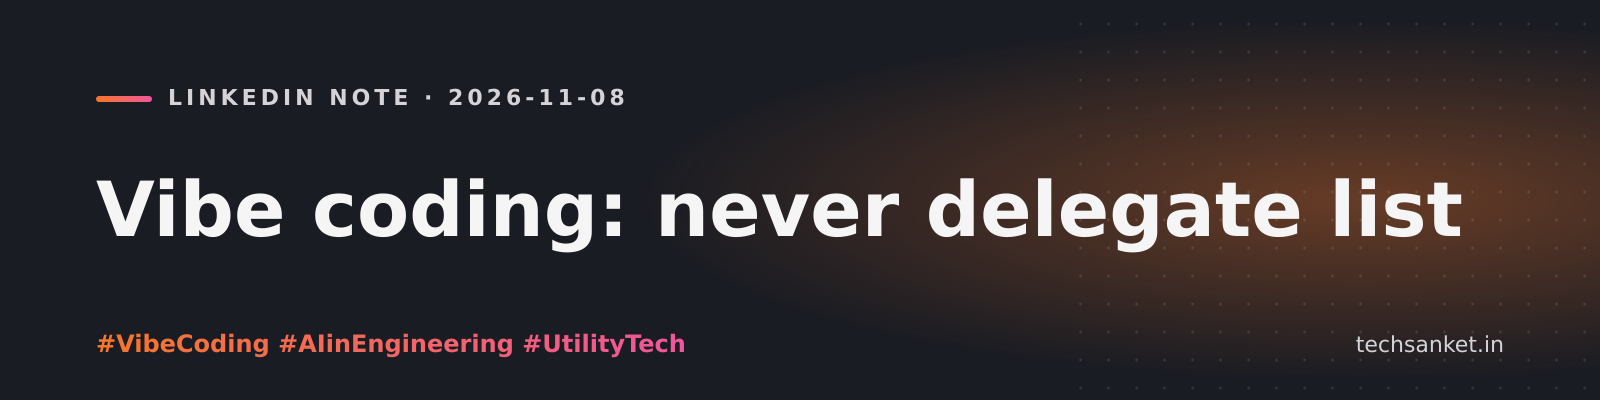
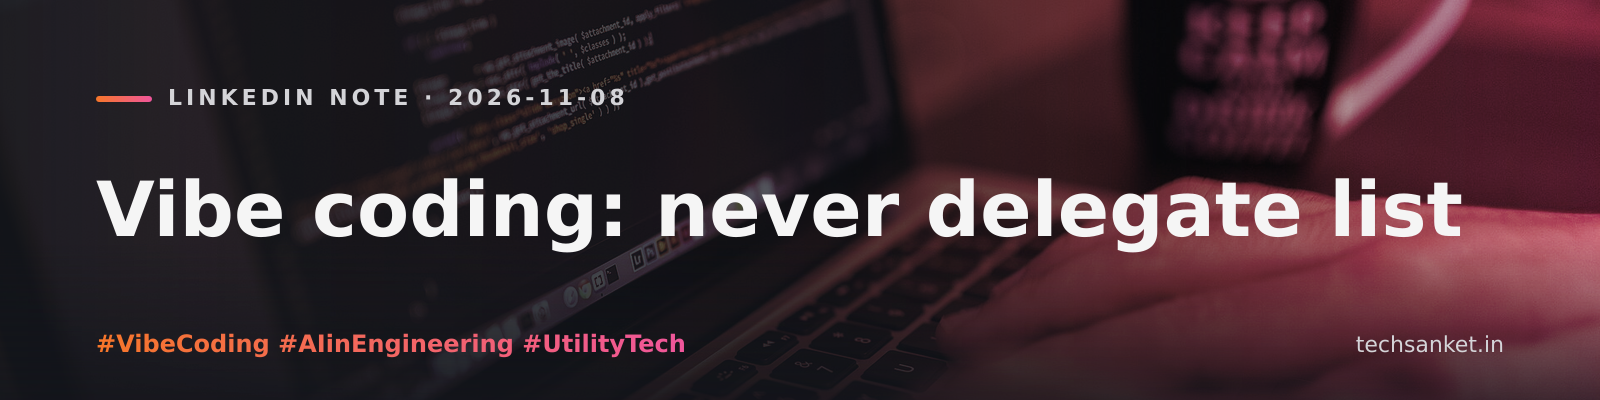
Redraw covers of the 3 existing LinkedIn posts with licensed photos
One-time redraw without the Anthropic API: photos were chosen by hand from
Wikimedia Commons candidates and rendered with scripts/post-covers.mjs, so
the output matches what the workflow produces. Credits are in each post's
imageCredits.

diff --git a/content/posts/li-11888000.md b/content/posts/li-11888000.md
@@ -6,6 +6,7 @@ publishDate: "2026-11-13"
 source: "linkedin"
 linkedinUrl: "https://www.linkedin.com/feed/update/urn:li:share:7526856382415896576"
 image: "/images/posts/li-11888000.png"
+imageCredits: [{"text":"Photo of Jensen Huang: Anderseidesvik, CC BY-SA 4.0, via Wikimedia Commons","url":"https://commons.wikimedia.org/wiki/File:Jensen_Huang_Stanford_2026-04-30_010_(cropped).jpg"},{"text":"Background: Valdemar Baes Aaholst, CC BY 4.0, via Wikimedia Commons","url":"https://commons.wikimedia.org/wiki/File:Press_Photographers_at_Amalienborg_2026.png"}]
 ---
 
 33 years. One CEO. Gone in a single morning.

diff --git a/content/posts/li-11851317.md b/content/posts/li-11851317.md
@@ -6,6 +6,7 @@ publishDate: "2026-11-11"
 source: "linkedin"
 linkedinUrl: "https://www.linkedin.com/feed/update/urn:li:share:7526200606441705472"
 image: "/images/posts/li-11851317.png"
+imageCredits: [{"text":"Background: BalticServers.com, CC BY-SA 3.0, via Wikimedia Commons","url":"https://commons.wikimedia.org/wiki/File:BalticServers_data_center.jpg"}]
 ---
 
 We connected AI agents to our internal tools using MCP. They now read tickets, test the app, and check the database on their own.

diff --git a/content/posts/li-11777519.md b/content/posts/li-11777519.md
@@ -6,6 +6,7 @@ publishDate: "2026-11-08"
 source: "linkedin"
 linkedinUrl: "https://www.linkedin.com/feed/update/urn:li:share:7525050021579337729"
 image: "/images/posts/li-11777519.png"
+imageCredits: [{"text":"Background: Free-Photos from Pixabay, CC0, via Wikimedia Commons","url":"https://commons.wikimedia.org/wiki/File:ComputerProgrammer.jpg"}]
 ---
 
 I'll be honest — I'm still figuring this out.
